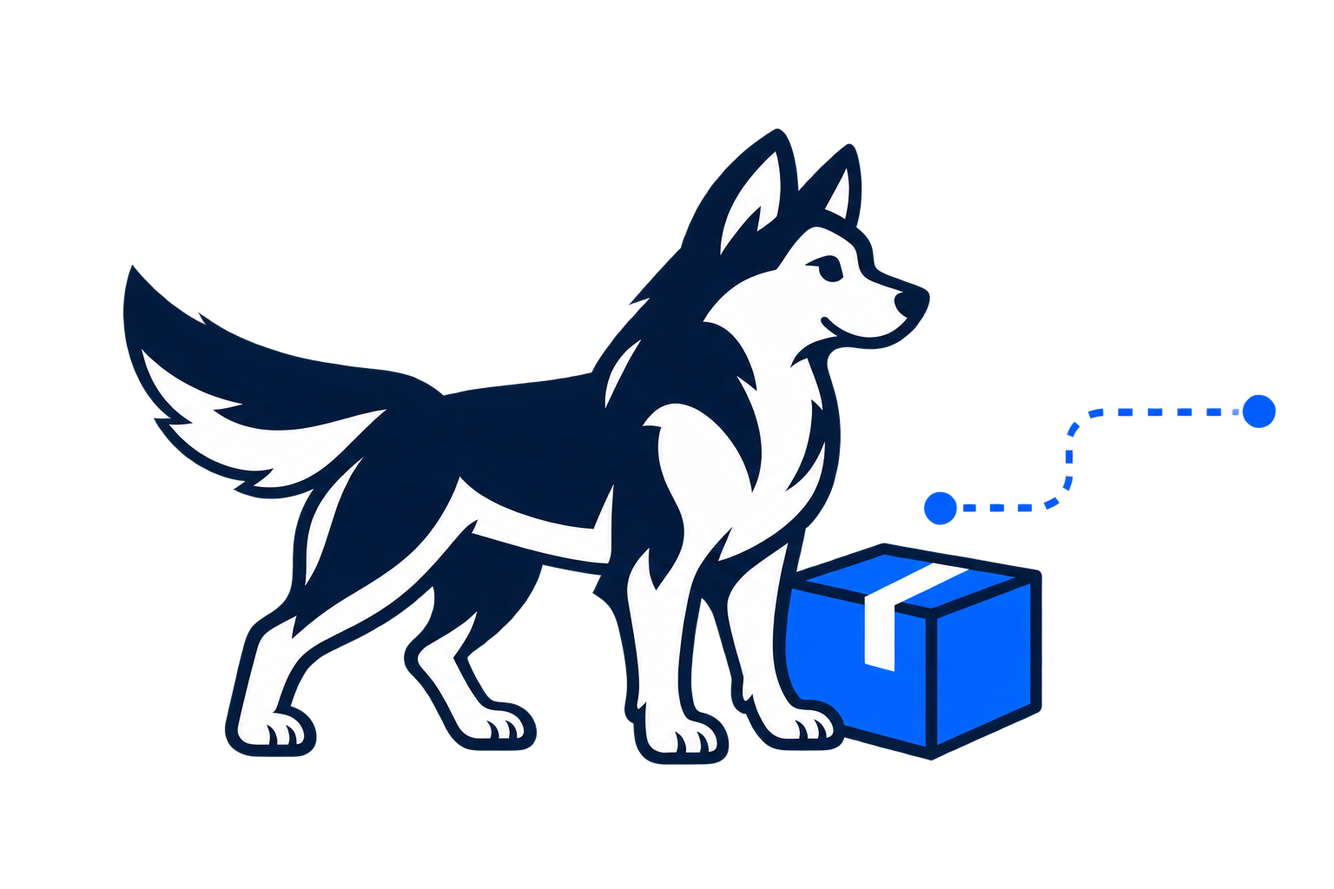
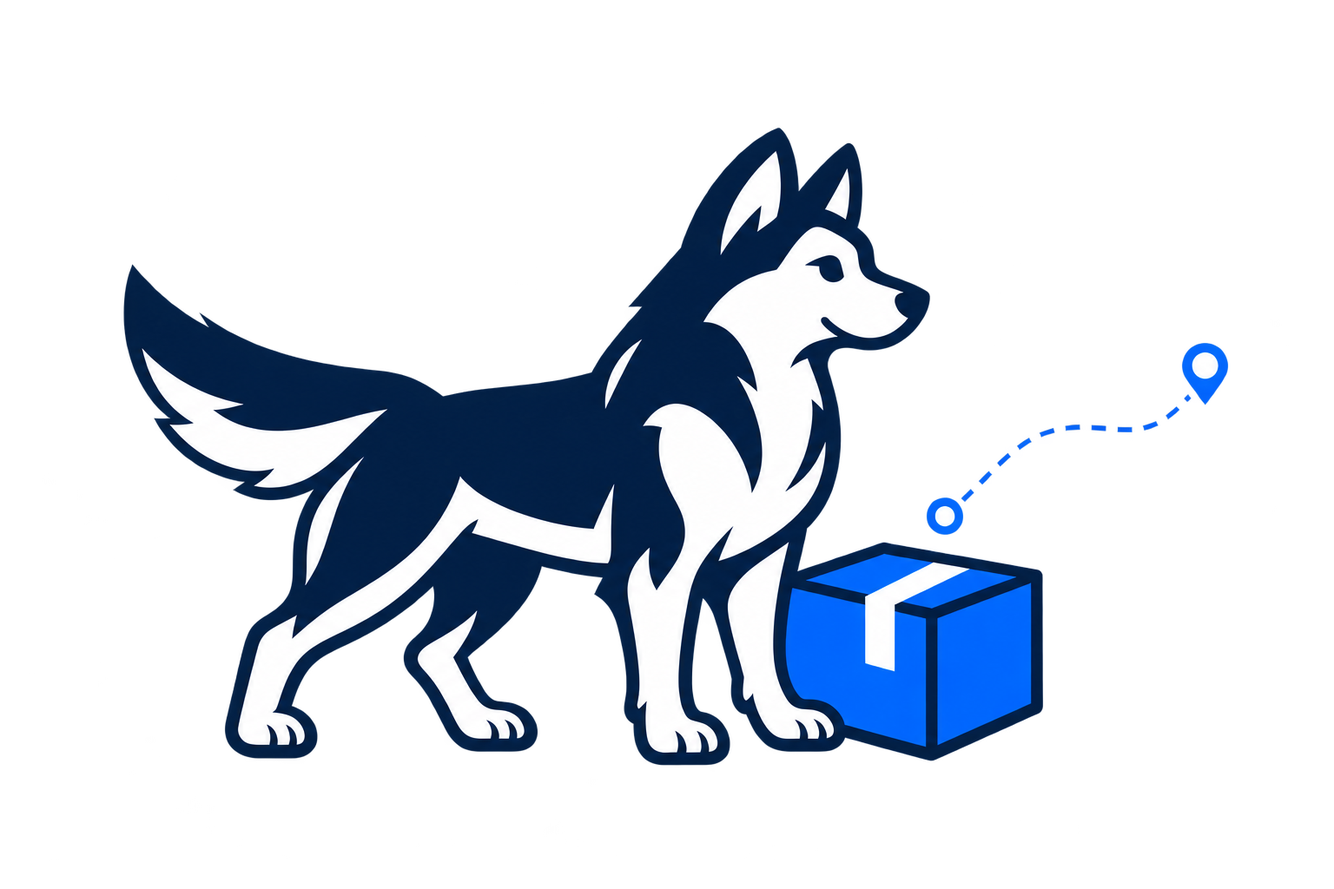
Thin searching route and restore endpoint markers

diff --git a/index.html b/index.html
@@ -55,7 +55,7 @@
       <p class="motion-credit">Основа анимации — <a href="https://uiverse.io/vinodjangid07/popular-owl-27" target="_blank" rel="noopener">vinodjangid07 / Uiverse</a>, <a href="brand/10-motion/LICENSE.uiverse.txt">MIT License</a>. Адаптация для «Груз в пути».</p>
     </section>
 
-    <section id="empty-responses"><div class="section-head"><div><span class="eyebrow">13 / Заказ без откликов</span><h2>Вместо пустоты — понятный следующий шаг.</h2></div><p>Поиск исполнителя, отмена и истёкший срок. Для каждой ситуации — отдельная иллюстрация с хаски, точный текст и уместное действие.</p></div><div class="grid three"><article class="card"><a href="brand/10-motion/empty-responses.html?state=SEARCHING"><img src="brand/12-empty-states/searching.png?v=2" alt="Хаски с коробкой у начала маршрута" style="height:230px;object-fit:contain;padding:22px" loading="lazy"></a><div class="card-body"><h3>Ждём первые отклики</h3><p>Заказ опубликован. Когда перевозчики предложат свои условия, отклики появятся здесь.</p><a href="brand/10-motion/empty-responses.html?state=SEARCHING">Посмотреть пример ↗</a></div></article><article class="card"><a href="brand/10-motion/empty-responses.html?state=CANCELLED"><img src="brand/12-empty-states/cancelled.png?v=2" alt="Хаски спокойно отдыхает рядом с коробкой" style="height:230px;object-fit:contain;padding:22px" loading="lazy"></a><div class="card-body"><h3>Вы отменили заказ</h3><p>По этому заказу откликов не было. Если перевозка снова нужна, можно создать похожий заказ.</p><a href="brand/10-motion/empty-responses.html?state=CANCELLED">Посмотреть пример ↗</a></div></article><article class="card"><a href="brand/10-motion/empty-responses.html?state=EXPIRED"><img src="brand/12-empty-states/expired.png?v=2" alt="Хаски сидит рядом с часами и коробкой" style="height:230px;object-fit:contain;padding:22px" loading="lazy"></a><div class="card-body"><h3>Срок заказа истёк</h3><p>До окончания срока отклики не поступили. Можно повторить заказ с актуальными датой и условиями.</p><a href="brand/10-motion/empty-responses.html?state=EXPIRED">Посмотреть пример ↗</a></div></article></div><p style="margin-top:22px"><a class="button" href="brand/10-motion/empty-responses.html">Сравнить мобильный и десктопный варианты ↗</a></p><p style="margin-top:15px"><a href="brand/12-empty-states/README.md">Тексты, исходники и правила реализации ↗</a></p></section>
+    <section id="empty-responses"><div class="section-head"><div><span class="eyebrow">13 / Заказ без откликов</span><h2>Вместо пустоты — понятный следующий шаг.</h2></div><p>Поиск исполнителя, отмена и истёкший срок. Для каждой ситуации — отдельная иллюстрация с хаски, точный текст и уместное действие.</p></div><div class="grid three"><article class="card"><a href="brand/10-motion/empty-responses.html?state=SEARCHING"><img src="brand/12-empty-states/searching.png?v=3" alt="Хаски с коробкой у начала маршрута" style="height:230px;object-fit:contain;padding:22px" loading="lazy"></a><div class="card-body"><h3>Ждём первые отклики</h3><p>Заказ опубликован. Когда перевозчики предложат свои условия, отклики появятся здесь.</p><a href="brand/10-motion/empty-responses.html?state=SEARCHING">Посмотреть пример ↗</a></div></article><article class="card"><a href="brand/10-motion/empty-responses.html?state=CANCELLED"><img src="brand/12-empty-states/cancelled.png?v=2" alt="Хаски спокойно отдыхает рядом с коробкой" style="height:230px;object-fit:contain;padding:22px" loading="lazy"></a><div class="card-body"><h3>Вы отменили заказ</h3><p>По этому заказу откликов не было. Если перевозка снова нужна, можно создать похожий заказ.</p><a href="brand/10-motion/empty-responses.html?state=CANCELLED">Посмотреть пример ↗</a></div></article><article class="card"><a href="brand/10-motion/empty-responses.html?state=EXPIRED"><img src="brand/12-empty-states/expired.png?v=2" alt="Хаски сидит рядом с часами и коробкой" style="height:230px;object-fit:contain;padding:22px" loading="lazy"></a><div class="card-body"><h3>Срок заказа истёк</h3><p>До окончания срока отклики не поступили. Можно повторить заказ с актуальными датой и условиями.</p><a href="brand/10-motion/empty-responses.html?state=EXPIRED">Посмотреть пример ↗</a></div></article></div><p style="margin-top:22px"><a class="button" href="brand/10-motion/empty-responses.html">Сравнить мобильный и десктопный варианты ↗</a></p><p style="margin-top:15px"><a href="brand/12-empty-states/README.md">Тексты, исходники и правила реализации ↗</a></p></section>
     <section id="notifications"><div class="section-head"><div><span class="eyebrow">12 / Уведомления</span><h2>Всё важное — рядом.</h2></div><p>Колокольчик открывает панель справа на десктопе и модальное окно на мобильном. Для заказчика — отклики и изменения предложений, для перевозчика — подходящие заказы.</p></div><div class="grid two"><div class="card"><a href="brand/10-motion/notifications.html"><img src="brand/10-motion/preview-notifications-client.png" alt="Панель уведомлений заказчика Груз в пути" loading="lazy"></a></div><div class="card" style="padding:32px;align-self:start"><span class="eyebrow">Две роли · две темы</span><h3>Событие ведёт к действию.</h3><p>Проверьте вкладки «Все» и «Непрочитанные», изменение цены, основные параметры подходящего заказа и состояния загрузки. Открытие панели сохраняет непрочитанные события.</p><p><a href="brand/10-motion/notifications.html" target="_blank" rel="noopener">Открыть пример для заказчика ↗</a></p><p><a href="brand/10-motion/notifications.html?role=carrier" target="_blank" rel="noopener">Открыть пример для перевозчика ↗</a></p><p><a href="brand/10-motion/notifications-mobile.html" target="_blank" rel="noopener">Открыть мобильное окно ↗</a></p><p><a href="brand/10-motion/NOTIFICATIONS.md" target="_blank" rel="noopener">Поведение и изменения API ↗</a></p></div></div></section>
     <section id="orders"><div class="section-head"><div><span class="eyebrow">11 / Заказы и отклики</span><h2>Все отклики. Один маршрут.</h2></div><p>Карточка заказа, предложения перевозчиков и управление перевозкой. Попробуйте открыть заказ, прочитать отклик, раскрыть статус и меню действий.</p></div><div class="grid two"><div class="card" style="padding:20px"><iframe data-gvp-theme-frame src="brand/10-motion/orders.html?embed=1" title="Интерактивный пример списка заказов Груз в пути" loading="lazy" style="display:block;width:100%;max-width:410px;height:830px;margin:auto;border:0;border-radius:38px"></iframe></div><div class="card" style="padding:32px;align-self:start"><span class="eyebrow">Интерактивный прототип</span><h3>От заказа к своему перевозчику.</h3><p>Синий отмечает новое. Тёмный фон собирает контекст заказа. Белая поверхность помогает сравнить предложения.</p><p>В примере работают обновление списка, переход к откликам, демо-чат, детали, редактирование, скрытие и отмена заказа. Все данные вымышлены.</p><p><a href="brand/10-motion/orders.html" target="_blank" rel="noopener">Открыть десктопный и мобильный пример ↗</a></p><p><a href="brand/10-motion/ORDERS.md" target="_blank" rel="noopener">Правила поведения и анимации ↗</a></p></div></div></section>
     <section id="logos"><div class="section-head"><div><span class="eyebrow">03 / Логотип</span><h2>Гибкость без потери характера.</h2></div><p>Горизонтальная версия для шапки сайта. Компактная — для узких форматов. Знак — для маленьких носителей.</p></div><div class="grid two">

diff --git a/brand/10-motion/empty-responses.html b/brand/10-motion/empty-responses.html
@@ -1,10 +1,10 @@
-<!doctype html><html lang="ru" data-theme="light"><head><meta charset="utf-8"><meta name="viewport" content="width=device-width,initial-scale=1"><title>Заказ без откликов · Груз в пути</title><link rel="icon" href="../03-icons/web/light/favicon.svg"><link rel="stylesheet" href="orders.css"><link rel="stylesheet" href="../12-empty-states/empty-responses.css?v=1"><link rel="stylesheet" href="../12-empty-states/showcase.css?v=1"><script src="../12-empty-states/empty-responses.js?v=2" defer></script><script src="../12-empty-states/showcase.js?v=1" defer></script></head>
+<!doctype html><html lang="ru" data-theme="light"><head><meta charset="utf-8"><meta name="viewport" content="width=device-width,initial-scale=1"><title>Заказ без откликов · Груз в пути</title><link rel="icon" href="../03-icons/web/light/favicon.svg"><link rel="stylesheet" href="orders.css"><link rel="stylesheet" href="../12-empty-states/empty-responses.css?v=1"><link rel="stylesheet" href="../12-empty-states/showcase.css?v=1"><script src="../12-empty-states/empty-responses.js?v=3" defer></script><script src="../12-empty-states/showcase.js?v=1" defer></script></head>
 <body class="empty-demo"><header class="empty-demo-header"><a class="brand" href="../../index.html#empty-responses"><img src="../02-logos/svg/logo-horizontal-light.svg" alt="Груз в пути"></a><div><a href="../12-empty-states/README.md">Правила и тексты ↗</a><button type="button" data-empty-theme aria-pressed="false">Тёмная тема</button></div></header>
 <main class="empty-demo-main"><p class="eyebrow">13 / Заказ без откликов</p><h1>Понятно, что происходит.<br>Понятно, что дальше.</h1><p class="empty-demo-lead">Три состояния, три иллюстрации и спокойный следующий шаг. Один компонент для мобильного и десктопного экрана.</p>
 <nav class="empty-demo-controls" aria-label="Статус заказа"><button type="button" data-empty-state="SEARCHING" aria-pressed="true">В поиске исполнителя</button><button type="button" data-empty-state="CANCELLED" aria-pressed="false">Отменён вами</button><button type="button" data-empty-state="EXPIRED" aria-pressed="false">Срок истёк</button></nav>
 <p class="empty-demo-concept" data-empty-concept aria-live="polite"></p>
 <div class="empty-demo-previews"><section class="empty-demo-desktop" aria-label="Десктопный вариант"><p class="empty-demo-caption">Десктоп · страница заказа</p><div class="empty-demo-browser"><div class="empty-demo-browserbar"><span aria-hidden="true">● ● ●</span><span>Груз в пути / Мой заказ</span></div><header class="empty-demo-orderhead"><span class="eyebrow">Мой заказ №1</span><h2>Перевезти мебель</h2><p data-empty-status></p><p class="empty-demo-route">Тверская, 7 → Ленинский пр-т, 30</p></header><div class="empty-demo-offers"><div class="section-line"><h3>Отклики <span class="muted">0</span></h3></div><div data-empty-slot="desktop"></div></div></div></section>
 <section class="empty-demo-mobile" aria-label="Мобильный вариант"><p class="empty-demo-caption">Мобильный · экран заказа</p><iframe id="empty-mobile-frame" title="Мобильный заказ без откликов" src="empty-responses-mobile.html?state=SEARCHING"></iframe></section></div>
-<section class="empty-demo-kit"><div><p class="eyebrow">Иллюстрации</p><h2>Один попутчик. Разные ситуации.</h2><p>Готовые PNG с прозрачным фоном. Светлая и тёмная темы используют одни и те же изображения.</p></div><div class="empty-demo-assets"><a href="../12-empty-states/searching.png?v=2" download><img src="../12-empty-states/searching.png?v=2" alt="Хаски ждёт рядом с коробкой у начала маршрута"><strong>Поиск исполнителя</strong><span>Скачать PNG ↓</span></a><a href="../12-empty-states/cancelled.png?v=2" download><img src="../12-empty-states/cancelled.png?v=2" alt="Хаски спокойно отдыхает рядом с коробкой"><strong>Отмена заказа</strong><span>Скачать PNG ↓</span></a><a href="../12-empty-states/expired.png?v=2" download><img src="../12-empty-states/expired.png?v=2" alt="Хаски сидит рядом с коробкой и часами"><strong>Срок истёк</strong><span>Скачать PNG ↓</span></a></div></section>
+<section class="empty-demo-kit"><div><p class="eyebrow">Иллюстрации</p><h2>Один попутчик. Разные ситуации.</h2><p>Готовые PNG с прозрачным фоном. Светлая и тёмная темы используют одни и те же изображения.</p></div><div class="empty-demo-assets"><a href="../12-empty-states/searching.png?v=3" download><img src="../12-empty-states/searching.png?v=3" alt="Хаски ждёт рядом с коробкой у начала маршрута"><strong>Поиск исполнителя</strong><span>Скачать PNG ↓</span></a><a href="../12-empty-states/cancelled.png?v=2" download><img src="../12-empty-states/cancelled.png?v=2" alt="Хаски спокойно отдыхает рядом с коробкой"><strong>Отмена заказа</strong><span>Скачать PNG ↓</span></a><a href="../12-empty-states/expired.png?v=2" download><img src="../12-empty-states/expired.png?v=2" alt="Хаски сидит рядом с коробкой и часами"><strong>Срок истёк</strong><span>Скачать PNG ↓</span></a></div></section>
 <p class="empty-demo-note">Демонстрационные заказы. «Повторить» и «Создать похожий» показывают пример следующего шага, без публикации заказа.</p><a class="back-link" href="../../index.html#empty-responses">← В брендбук</a></main>
 <dialog class="empty-action-dialog" aria-labelledby="empty-action-title"><div class="modal-head"><h3 id="empty-action-title"></h3><button class="icon-button" type="button" data-empty-close aria-label="Закрыть">×</button></div><div data-empty-action-body></div></dialog></body></html>

diff --git a/brand/10-motion/empty-responses-mobile.html b/brand/10-motion/empty-responses-mobile.html
@@ -1,1 +1,1 @@
-<!doctype html><html lang="ru" data-theme="light"><head><meta charset="utf-8"><meta name="viewport" content="width=device-width,initial-scale=1"><title>Мобильный заказ без откликов · Груз в пути</title><link rel="stylesheet" href="orders.css"><link rel="stylesheet" href="../12-empty-states/empty-responses.css?v=1"><link rel="stylesheet" href="../12-empty-states/showcase.css?v=1"><script src="../12-empty-states/empty-responses.js?v=2" defer></script><script src="../12-empty-states/showcase.js?v=1" defer></script></head><body class="empty-mobile-page"><header class="empty-demo-orderhead"><div class="empty-mobile-nav"><a href="orders.html?view=mobile" aria-label="К моим заказам">‹</a><span class="eyebrow">Мой заказ №1</span><span aria-hidden="true">···</span></div><h2>Перевезти мебель</h2><p data-empty-status></p><p class="empty-demo-route">Тверская, 7 → Ленинский пр-т, 30</p></header><main class="empty-demo-offers"><div class="section-line"><h3>Отклики <span class="muted">0</span></h3></div><div data-empty-slot="mobile"></div></main><dialog class="empty-action-dialog" aria-labelledby="empty-action-title"><div class="modal-head"><h3 id="empty-action-title"></h3><button class="icon-button" type="button" data-empty-close aria-label="Закрыть">×</button></div><div data-empty-action-body></div></dialog></body></html>
+<!doctype html><html lang="ru" data-theme="light"><head><meta charset="utf-8"><meta name="viewport" content="width=device-width,initial-scale=1"><title>Мобильный заказ без откликов · Груз в пути</title><link rel="stylesheet" href="orders.css"><link rel="stylesheet" href="../12-empty-states/empty-responses.css?v=1"><link rel="stylesheet" href="../12-empty-states/showcase.css?v=1"><script src="../12-empty-states/empty-responses.js?v=3" defer></script><script src="../12-empty-states/showcase.js?v=1" defer></script></head><body class="empty-mobile-page"><header class="empty-demo-orderhead"><div class="empty-mobile-nav"><a href="orders.html?view=mobile" aria-label="К моим заказам">‹</a><span class="eyebrow">Мой заказ №1</span><span aria-hidden="true">···</span></div><h2>Перевезти мебель</h2><p data-empty-status></p><p class="empty-demo-route">Тверская, 7 → Ленинский пр-т, 30</p></header><main class="empty-demo-offers"><div class="section-line"><h3>Отклики <span class="muted">0</span></h3></div><div data-empty-slot="mobile"></div></main><dialog class="empty-action-dialog" aria-labelledby="empty-action-title"><div class="modal-head"><h3 id="empty-action-title"></h3><button class="icon-button" type="button" data-empty-close aria-label="Закрыть">×</button></div><div data-empty-action-body></div></dialog></body></html>

diff --git a/brand/12-empty-states/empty-responses.js b/brand/12-empty-states/empty-responses.js
@@ -25,7 +25,7 @@
     const state = states[status]; if (!state) return null;
     const root = document.createElement('section');root.className='gvp-empty-response';root.dataset.state=status;
     const id=`empty-response-title-${++sequence}`;root.setAttribute('aria-labelledby',id);
-    const image=document.createElement('img');image.className='gvp-empty-response__image';image.src=`../12-empty-states/${state.image}?v=2`;image.alt='';image.width=384;image.height=256;image.decoding='async';root.append(image);
+    const image=document.createElement('img');image.className='gvp-empty-response__image';image.src=`../12-empty-states/${state.image}?v=3`;image.alt='';image.width=384;image.height=256;image.decoding='async';root.append(image);
     const content=document.createElement('div');content.className='gvp-empty-response__content';
     const title=document.createElement('h3');title.id=id;title.textContent=state.title;
     const text=document.createElement('p');text.textContent=state.text;

diff --git a/brand/10-motion/order.html b/brand/10-motion/order.html
@@ -4,7 +4,7 @@
   <meta charset="utf-8"><meta name="viewport" content="width=device-width,initial-scale=1">
   <title>Заказ · Груз в пути</title>
   <link rel="icon" href="../03-icons/web/light/favicon.svg">
-  <link rel="stylesheet" href="orders.css?v=pages-2"><link rel="stylesheet" href="orders-desktop.css?v=2"><link rel="stylesheet" href="../12-empty-states/empty-responses.css?v=1"><script src="../12-empty-states/empty-responses.js?v=2" defer></script><script src="orders.js?v=empty-1" defer></script>
+  <link rel="stylesheet" href="orders.css?v=pages-2"><link rel="stylesheet" href="orders-desktop.css?v=2"><link rel="stylesheet" href="../12-empty-states/empty-responses.css?v=1"><script src="../12-empty-states/empty-responses.js?v=3" defer></script><script src="orders.js?v=empty-1" defer></script>
   <link rel="stylesheet" href="notifications.css?v=1"><script src="notifications.js?v=1" defer></script>
 </head>
 <body data-page="order">

diff --git a/brand/10-motion/orders.html b/brand/10-motion/orders.html
@@ -4,7 +4,7 @@
   <meta charset="utf-8"><meta name="viewport" content="width=device-width,initial-scale=1">
   <title>Мои заказы · Груз в пути</title>
   <link rel="icon" href="../03-icons/web/light/favicon.svg">
-  <link rel="stylesheet" href="orders.css?v=pages-2"><link rel="stylesheet" href="orders-desktop.css?v=2"><link rel="stylesheet" href="../12-empty-states/empty-responses.css?v=1"><script src="../12-empty-states/empty-responses.js?v=2" defer></script><script src="orders.js?v=empty-1" defer></script>
+  <link rel="stylesheet" href="orders.css?v=pages-2"><link rel="stylesheet" href="orders-desktop.css?v=2"><link rel="stylesheet" href="../12-empty-states/empty-responses.css?v=1"><script src="../12-empty-states/empty-responses.js?v=3" defer></script><script src="orders.js?v=empty-1" defer></script>
   <link rel="stylesheet" href="notifications.css?v=1"><script src="notifications.js?v=1" defer></script>
 </head>
 <body>

diff --git a/brand/12-empty-states/README.md b/brand/12-empty-states/README.md
@@ -1,6 +1,6 @@
 # Заказ без откликов
 
-Иллюстрации обновлены 30 октября 2026: пропорции и масштаб хаски приведены к варианту SEARCHING. Маршрут SEARCHING повторяет графику раздела «08 / Фирменные баннеры»: тонкие короткие штрихи с прямыми окончаниями, равномерные интервалы и круглые точки на концах. Эталон SVG баннера: `stroke-width="5"`, `stroke-dasharray="9 14"`, радиус конечных точек `11`, цвет `#0066FF`.
+Иллюстрации обновлены 30 октября 2026: пропорции и масштаб хаски приведены к варианту SEARCHING. Маршрут SEARCHING повторяет графику раздела «08 / Фирменные баннеры»: тонкие короткие штрихи с прямыми окончаниями, равномерные интервалы. По уточнению: линия дополнительно облегчена, в начале кольцо с белым центром, в конце метка геолокации. Эталон ритма SVG баннера: `stroke-width="5"`, `stroke-dasharray="9 14"`, радиус конечных точек `11`, цвет `#0066FF`.
 
 ## Состав поставки
 

diff --git a/brand/12-empty-states/PROMPTS.md b/brand/12-empty-states/PROMPTS.md
@@ -1,5 +1,9 @@
 # Промпты иллюстраций
 
+## Финальное уточнение: тоньше линия, возврат кольца и метки
+
+undefined
+
 
 ## Уточнение маршрута по фирменному баннеру
 
